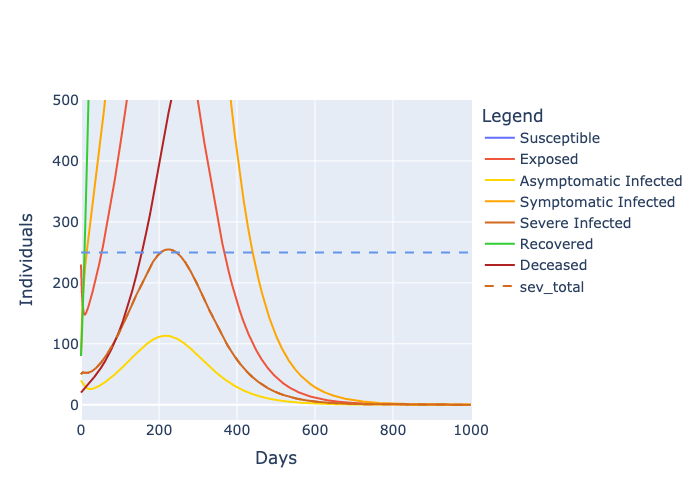
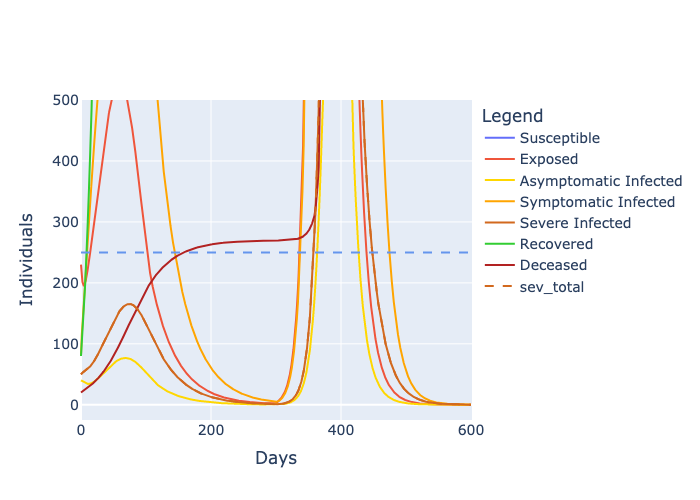
made run_simulations a function

diff --git a/simulation/code/run_simulations.py b/simulation/code/run_simulations.py
@@ -13,11 +13,6 @@ from explicit_euler import Explicit_Euler
 from result_analyzer import Result_Analyzer
 from visualizer import Visualizer
 
-# Start and end time, stepsize
-t_start = 0
-t_end = 600
-stepsize = 1e-2
-
 def beta(t):
     if t < 100:
         return matrix(vector([((0.1)*(100 - t)/100) + 0.05]).reshape((1, 1)))
@@ -28,63 +23,73 @@ def beta(t):
     else:
         return matrix(vector([0.075]).reshape((1, 1)))
 
-# Preparing data parsing
-# data_set_name = "scenarios-underlying-figure-4"
-data_set_name = "second_wave"
-data_directory_name = "../data/" + data_set_name + "/"
-data_directory = os.fsencode(data_directory_name)
+def run_simulation(data_set_name):
+    t_start = 0
+    t_end = 600
+    stepsize = 1e-2
 
-for file in os.listdir(data_directory):
-    data_filename = os.fsdecode(file)
-    if data_filename.endswith(".csv"):
+    # Preparing data parsing
+    # data_set_name = "scenarios-underlying-figure-4"
+    data_directory_name = "../data/" + data_set_name + "/"
+    data_directory = os.fsencode(data_directory_name)
 
-        # Parsing the data
-        data_filename_prefix = data_filename.split(".")[0]
-        data_reader = Data_Reader()
-        packed_data = data_reader.read_from_csv_file(data_directory_name + data_filename_prefix + ".csv")
+    for file in os.listdir(data_directory):
+        data_filename = os.fsdecode(file)
+        if data_filename.endswith(".csv"):
 
-        # Unpacking some of the parsed data
-        tracing_data_given = packed_data[0]
-        assert(isinstance(tracing_data_given, bool))
-        K = packed_data[1]
-        N = packed_data[2]
-        beds = packed_data[-2]
-        x0 = packed_data[-1]
+            # Parsing the data
+            data_filename_prefix = data_filename.split(".")[0]
+            data_reader = Data_Reader()
+            packed_data = data_reader.read_from_csv_file(data_directory_name + data_filename_prefix + ".csv")
 
-        # Instantiate the ODE system class
-        if tracing_data_given:
-            print("Setting up the tracing model")
-            ode_system = SEIIIRD_Tracing_Model(packed_data[1:-1])
-        else:
-            print("Setting up the tracing-free model")
-            ode_system = SEIIIRD_Model(packed_data[1:-1], time_dependent_params={'beta_asym': beta, 'beta_sym': beta, 'beta_sev': beta})
-            # ode_system = SEIIIRD_Model(packed_data[1:-1])
+            # Unpacking some of the parsed data
+            tracing_data_given = packed_data[0]
+            assert(isinstance(tracing_data_given, bool))
+            K = packed_data[1]
+            N = packed_data[2]
+            beds = packed_data[-2]
+            x0 = packed_data[-1]
 
-        # Solve the ODE system
-        explicit_euler = Explicit_Euler(ode_system, stepsize)
-        start_time = time.time()
-        results = explicit_euler.solve(t_start, x0, t_end)
-        end_time = time.time()
-        print("Required CPU time = " + str(round(end_time - start_time, 3)) + " seconds")
+            # Instantiate the ODE system class
+            if tracing_data_given:
+                print("Setting up the tracing model")
+                ode_system = SEIIIRD_Tracing_Model(packed_data[1:-1])
+            else:
+                print("Setting up the tracing-free model")
+                ode_system = SEIIIRD_Model(packed_data[1:-1], time_dependent_params={'beta_asym': beta, 'beta_sym': beta, 'beta_sev': beta})
+                # ode_system = SEIIIRD_Model(packed_data[1:-1])
 
-        # Analyze results
-        path = "../results/" + data_set_name + "/"
-        if not os.path.exists(path):
-            os.makedirs(path)
-        result_analyzer = Result_Analyzer(tracing_data_given, results, stepsize,
-                                          N, K, beds, t_start, t_end,
-                                          path + data_filename_prefix)
-        result_analyzer.extract_results()
-        result_dict = result_analyzer.get_extracted_results_as_dict()
-        result_analyzer.compute_and_write_results()
+            # Solve the ODE system
+            explicit_euler = Explicit_Euler(ode_system, stepsize)
+            start_time = time.time()
+            results = explicit_euler.solve(t_start, x0, t_end)
+            end_time = time.time()
+            print("Required CPU time = " + str(round(end_time - start_time, 3)) + " seconds")
 
-        # Visualize results
-        visualizer = Visualizer(tracing_data_given, result_dict, N, K, beds, t_start, t_end,
-                                "../results/" + data_set_name + "/" + data_filename_prefix)
+            # Analyze results
+            path = "../results/" + data_set_name + "/"
+            if not os.path.exists(path):
+                os.makedirs(path)
+            result_analyzer = Result_Analyzer(tracing_data_given, results, stepsize,
+                                            N, K, beds, t_start, t_end,
+                                            path + data_filename_prefix)
+            result_analyzer.extract_results()
+            result_dict = result_analyzer.get_extracted_results_as_dict()
+            result_analyzer.compute_and_write_results()
 
-        visualizer.plot_all_curves()
-        visualizer.plot_aggregated_curves()
-        # visualizer.paper_plot_figure_1()
-        if tracing_data_given:
-            visualizer.paper_plot_figure_3()
-            visualizer.paper_plot_figure_4()
+            # Visualize results
+            visualizer = Visualizer(tracing_data_given, result_dict, N, K, beds, t_start, t_end,
+                                    "../results/" + data_set_name + "/" + data_filename_prefix)
+
+            visualizer.plot_all_curves()
+            visualizer.plot_aggregated_curves()
+            # visualizer.paper_plot_figure_1()
+            if tracing_data_given:
+                visualizer.paper_plot_figure_3()
+                visualizer.paper_plot_figure_4()
+
+def main():
+    run_simulation("Alpha")
+    
+if __name__ == "__main__":
+    main()

diff --git a/roja/app.py b/roja/app.py
@@ -1,5 +1,5 @@
 import streamlit as st
-import matplotlib.pyplot as plt
+# import matplotlib.pyplot as plt
 import plotly.express as px
 import plotly.subplots as sp
 import plotly.graph_objects as go
@@ -9,8 +9,8 @@ from statsmodels.tsa.seasonal import STL
 import statsmodels.api as sm
 from statsmodels.tsa.stattools import adfuller
 from statsmodels.tsa.arima.model import ARIMA
-import pmdarima as pm
-import seaborn as sns
+# import pmdarima as pm
+# import seaborn as sns
 
 st.set_page_config(layout="wide")
 
